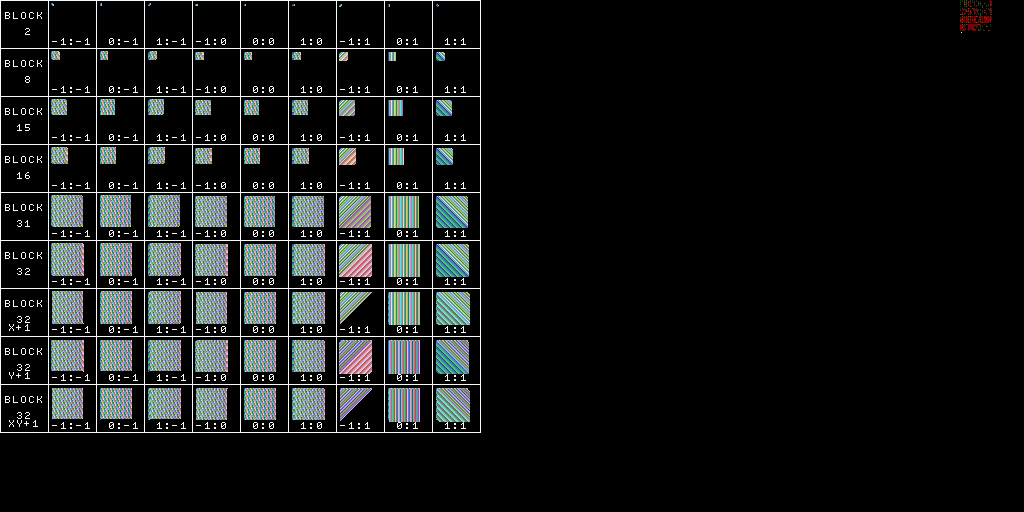
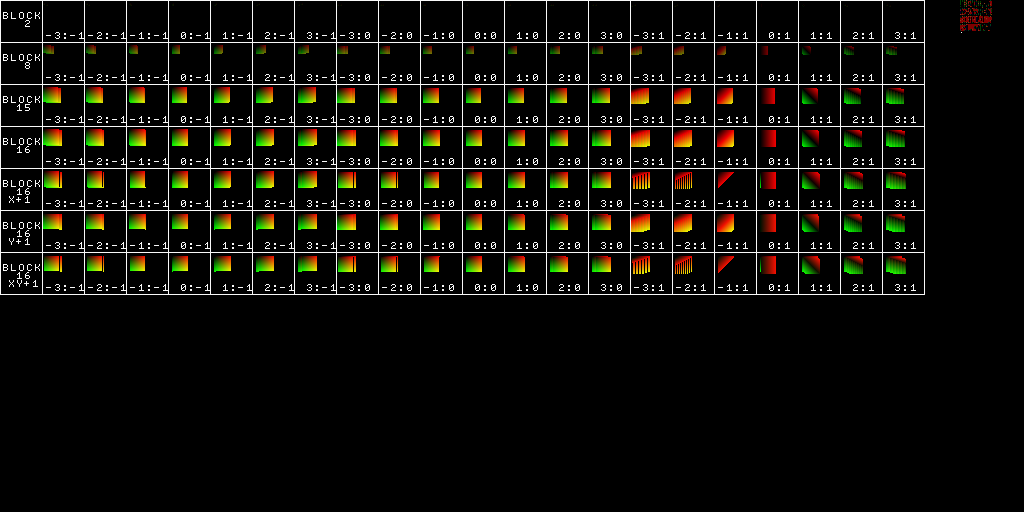
gpu/vram-to-vram-overlap investigate srcX < dstX case

diff --git a/gpu/vram-to-vram-overlap/main.cpp b/gpu/vram-to-vram-overlap/main.cpp
@@ -1,24 +1,11 @@
 #include <common.h>
 #include "font.h"
 
-// 24 bit to 15 bit value
-constexpr uint16_t rgb(uint8_t r, uint8_t g, uint8_t b) {
-    uint16_t c = 0;
-    c |= ((r >> 3) & 0x1f);
-    c |= ((g >> 3) & 0x1f) << 5;
-    c |= ((b >> 3) & 0x1f) << 10;
-    return c;
-}
-
-constexpr uint16_t randomColor(int c) {
-    return rgb(64+(c*432)%192, 64+(c*127)%192, 64+(c*941)%192);
-}
-
 // Write sizexsize rect to vram
 void writeRect(int dstX, int dstY, int size) {
     for (int y = 0; y<size; y++) {
         for (int x = 0; x<size; x++) {
-            vramPut(dstX + x, dstY + y, randomColor(y * 32 + x));
+            vramPut(dstX + x, dstY + y, y*2 * 32 + x*2);
         }   
     }
 }
@@ -31,53 +18,56 @@ void line(int sx, int sy, int ex, int ey) {
     l.x0 = sx;
     l.y0 = sy;
     l.x1 = ex;
-    l.y1 = ey;
-
+    l.y1 = ey; 
+ 
     DrawPrim(&l);
 }
 
-constexpr int SIZES = 6 + 3;
-constexpr int sizes[SIZES] = {
-    2, 8, 15, 16, 31, 32, 
-    32, // x + 1
-    32, // y + 1
-    32, // x + 1, y + 1
+constexpr int testCases[] = {
+    2, 8, 15, 16, 
+    16, // x + 1
+    16, // y + 1
+    16, // x + 1, y + 1
 };
+template<class T, size_t N>
+constexpr size_t count(T (&)[N]) { return N; }
 
-const int COLS = 10;
-const int CELL_SIZE = 48;
+constexpr int TEST_W = 3; // Test x from -3 to 3
+constexpr int TEST_H = 1; // Test y from -1 to 1
+const int COLS = (TEST_W*2 + 1) * (TEST_H*2 + 1);
+const int CELL_SIZE = 42;
 const int MARGIN = 4;
 
 void drawDebugInfo() {
     // Draw grid, vertical lines
-    for (int size = 0; size < SIZES + 1; size++) {
+    for (int size = 0; size < count(testCases) + 1; size++) {
         line(
             0, size * CELL_SIZE, 
-            CELL_SIZE * COLS, size * CELL_SIZE
+            CELL_SIZE * (COLS+1), size * CELL_SIZE
         );
     }
     // Horizontal
-    for (int i = 0; i<COLS + 1; i++) {
+    for (int i = 0; i <= COLS + 1; i++) {
         line(
             i * CELL_SIZE, 0, 
-            i * CELL_SIZE, SIZES * CELL_SIZE
+            i * CELL_SIZE, count(testCases) * CELL_SIZE
         );
     }
 
     // Labels
-    for (int testCase = 0; testCase < SIZES; testCase++) {
-        for (int i = 0; i<COLS; i++) {
-            if (i == 0) {
-                FntPos(i * CELL_SIZE + 4, testCase * CELL_SIZE + 12);
-                FntPrintf("BLOCK\n\n  %2d\n ", sizes[testCase]);
-                if (testCase == 6) FntPrintf("x+1");
-                if (testCase == 7) FntPrintf("y+1");
-                if (testCase == 8) FntPrintf("xy+1");
-            } else {
-                int x = (i-1)%3 - 1;
-                int y = (i-1)/3 - 1;
-                FntPos(i * CELL_SIZE + 4, (testCase + 1) * CELL_SIZE - 10);
+    for (int t = 0; t < count(testCases); t++) {
+        FntPos(2, t * CELL_SIZE + 12);
+        FntPrintf("BLOCK\n  %2d\n ", testCases[t]);
+        if (t == 4) FntPrintf("x+1");
+        if (t == 5) FntPrintf("y+1");
+        if (t == 6) FntPrintf("xy+1");
+
+        int i = 1;
+        for (int y = -TEST_H; y <= TEST_H; y++) {
+            for (int x = -TEST_W; x <= TEST_W; x++) {
+                FntPos(i * CELL_SIZE + 4, (t + 1) * CELL_SIZE - 10);
                 FntPrintf("%2d:%d", x, y);
+                i++;
             }
         }
     }
@@ -86,7 +76,7 @@ void drawDebugInfo() {
 #define DRAW_DEBUG
 
 int main() {
-    initVideo(320, 240);
+    initVideo(640, 480);
     printf("\ngpu/vram-to-vram-overlap\n");
 
     setMaskBitSetting(false, false);
@@ -98,30 +88,30 @@ int main() {
 #endif
         
     // Draw test data
-    for (int testCase = 0; testCase < SIZES; testCase++) {
-        for (int i = 1; i<COLS; i++) {
-            writeRect(i * CELL_SIZE + MARGIN, testCase * CELL_SIZE + MARGIN, sizes[testCase]);
+    for (int t = 0; t < count(testCases); t++) {
+        for (int i = 0; i<COLS; i++) {
+            writeRect((i+1) * CELL_SIZE + MARGIN, t * CELL_SIZE + MARGIN, testCases[t]);
             writeGP0(1, 0);
         }
     }
         
     // Run test itself - copy data in different configurations
-    for (int testCase = 0; testCase < SIZES; testCase++) {
-        int size = sizes[testCase];
+    for (int t = 0; t < count(testCases); t++) {
+        int size = testCases[t];
         int xOffset = 0;
         int yOffset = 0;
 
-        if (testCase == 6) {xOffset += 1;}
-        if (testCase == 7) {yOffset += 1;}
-        if (testCase == 8) {xOffset += 1; yOffset += 1;}
+        if (t == 4) {xOffset += 1;}
+        if (t == 5) {yOffset += 1;}
+        if (t == 6) {xOffset += 1; yOffset += 1;}
 
         int i = 1;
-        for (int y = -1; y <= 1; y++) {
-            for (int x = -1; x <= 1; x++) {
-                int srcX = xOffset + i        * CELL_SIZE + MARGIN;
-                int srcY = yOffset + testCase * CELL_SIZE + MARGIN;
-                int dstX = xOffset + i        * CELL_SIZE + MARGIN + x;
-                int dstY = yOffset + testCase * CELL_SIZE + MARGIN + y;
+        for (int y = -TEST_H; y <= TEST_H; y++) {
+            for (int x = -TEST_W; x <= TEST_W; x++) {
+                int srcX = xOffset + i * CELL_SIZE + MARGIN;
+                int srcY = yOffset + t * CELL_SIZE + MARGIN;
+                int dstX = xOffset + i * CELL_SIZE + MARGIN + x;
+                int dstY = yOffset + t * CELL_SIZE + MARGIN + y;
                 
                 vramToVramCopy(srcX, srcY, dstX, dstY, size, size);
                 writeGP0(1, 0);

diff --git a/common/gpu.c b/common/gpu.c
@@ -8,6 +8,11 @@ void setResolution(int w, int h) {
     SetDefDispEnv(&disp, 0, 0, w, h);
     SetDefDrawEnv(&draw, 0, 0, 1024, 512);
 
+    if (h == 480) {
+        disp.isinter = true; // Interlace mode
+	    draw.dfe = true; // Drawing to display area (odd and even lines)
+    }
+
     PutDispEnv(&disp);
     PutDrawEnv(&draw);
 }
@@ -89,7 +94,7 @@ void vramPut(int x, int y, uint16_t pixel) {
 
 uint32_t vramGet(int x, int y) {
     VRAM2CPU buf = {0};
-    setcode(&buf, 0xC0); // CPU -> VRAM
+    setcode(&buf, 0xC0); // VRAM -> CPU
     setlen(&buf, 3);
     
     buf.x0 = x; // VRAM position
